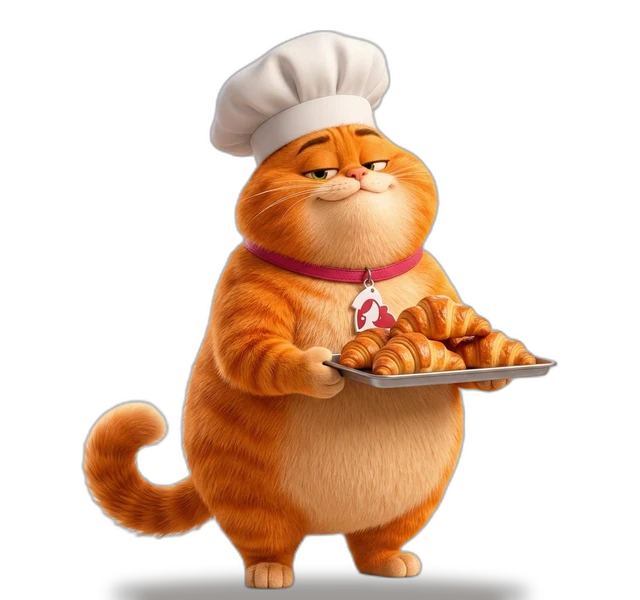
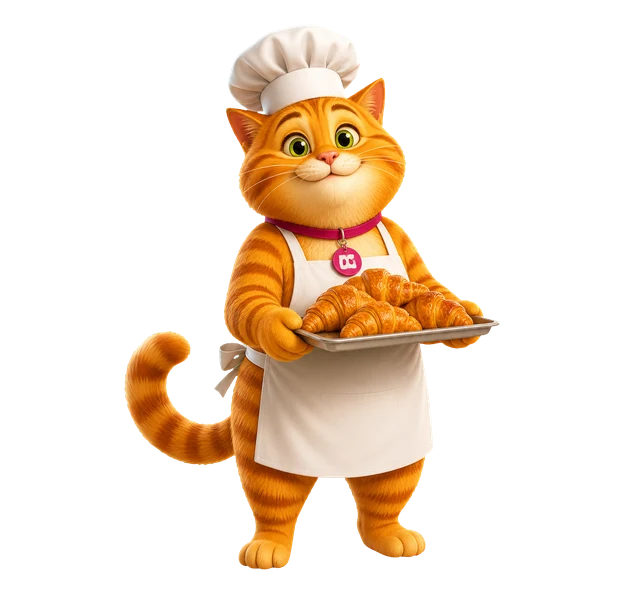
fix: replace croissant master cat art

diff --git a/public/game.html b/public/game.html
@@ -15,7 +15,7 @@
   <link rel="preload" as="style" href="https://fonts.googleapis.com/css2?family=Nunito:wght@400;600;700;800;900&family=JetBrains+Mono:wght@500;600&display=swap"/>
   <link href="https://fonts.googleapis.com/css2?family=Nunito:wght@400;600;700;800;900&family=JetBrains+Mono:wght@500;600&display=swap" rel="stylesheet" media="print" onload="this.media='all'"/>
   <noscript><link href="https://fonts.googleapis.com/css2?family=Nunito:wght@400;600;700;800;900&family=JetBrains+Mono:wght@500;600&display=swap" rel="stylesheet"/></noscript>
-  <link rel="preload" as="script" href="/js/catclick.js?v=165"/>
+  <link rel="preload" as="script" href="/js/catclick.js?v=166"/>
   <link rel="preload" as="script" href="/js/catpet.js?v=25"/>
   <link rel="preload" as="script" href="/js/catdove.js?v=35"/>
   <link rel="preload" as="script" href="/js/catdrag.js?v=17"/>
@@ -50,6 +50,6 @@ setTimeout(function () {
 <script src="/js/catpet.js?v=25" defer></script>
 <script src="/js/catdove.js?v=35" defer></script>
 <script src="/js/catdrag.js?v=17" defer></script>
-<script src="/js/catclick.js?v=165" defer></script>
+<script src="/js/catclick.js?v=166" defer></script>
 </body>
 </html>

diff --git a/public/js/catclick.js b/public/js/catclick.js
@@ -7,7 +7,7 @@
   // Диагностика (startapp=debug / 7 тапов по бейджу уровня) — копим последние ошибки страницы.
   const ckDiagErrors = [];
   window.addEventListener('error', (e) => { if (ckDiagErrors.length < 5) ckDiagErrors.push(String((e && e.message) || e)); });
-  const A = (s) => `/assets/images/cat/${s}?v=25`;  // v25: анатомия — 4 лапы у всех (реген 2/6/8/10/14/15/17/18), кулон вместо «М»-медальона
+  const A = (s) => `/assets/images/cat/${s}?v=26`;  // v26: заменён «Мастер круассанов» — аккуратный силуэт, нормальная мимика
   const LS = 'maria_click_v2';
   const REGEN = 1.5, PASSIVE_CAP_H = 3, TURBO_MULT = 5, TURBO_SEC = 20, DAILY_BOOSTS = 6;
   // ⚠ Зеркало CARDS/CARD_CATS из src/clicker.ts — менять синхронно (+ cardIcon по id).

diff --git a/public/index.html b/public/index.html
@@ -1308,7 +1308,7 @@
 <script src="/js/catlive.js" defer></script>
 <script src="/js/catdove.js?v=35" defer></script>
 <script src="/js/catdrag.js?v=17" defer></script>
-<script src="/js/catclick.js?v=165" defer></script>
+<script src="/js/catclick.js?v=166" defer></script>
 <!-- /js/bakery.js удалён — Игры убраны до новой геймификации (см. game.js — wheel/streak/secret) -->
 <script src="/js/chat.js" defer></script>
 <script src="/js/catalog.js" defer></script>
